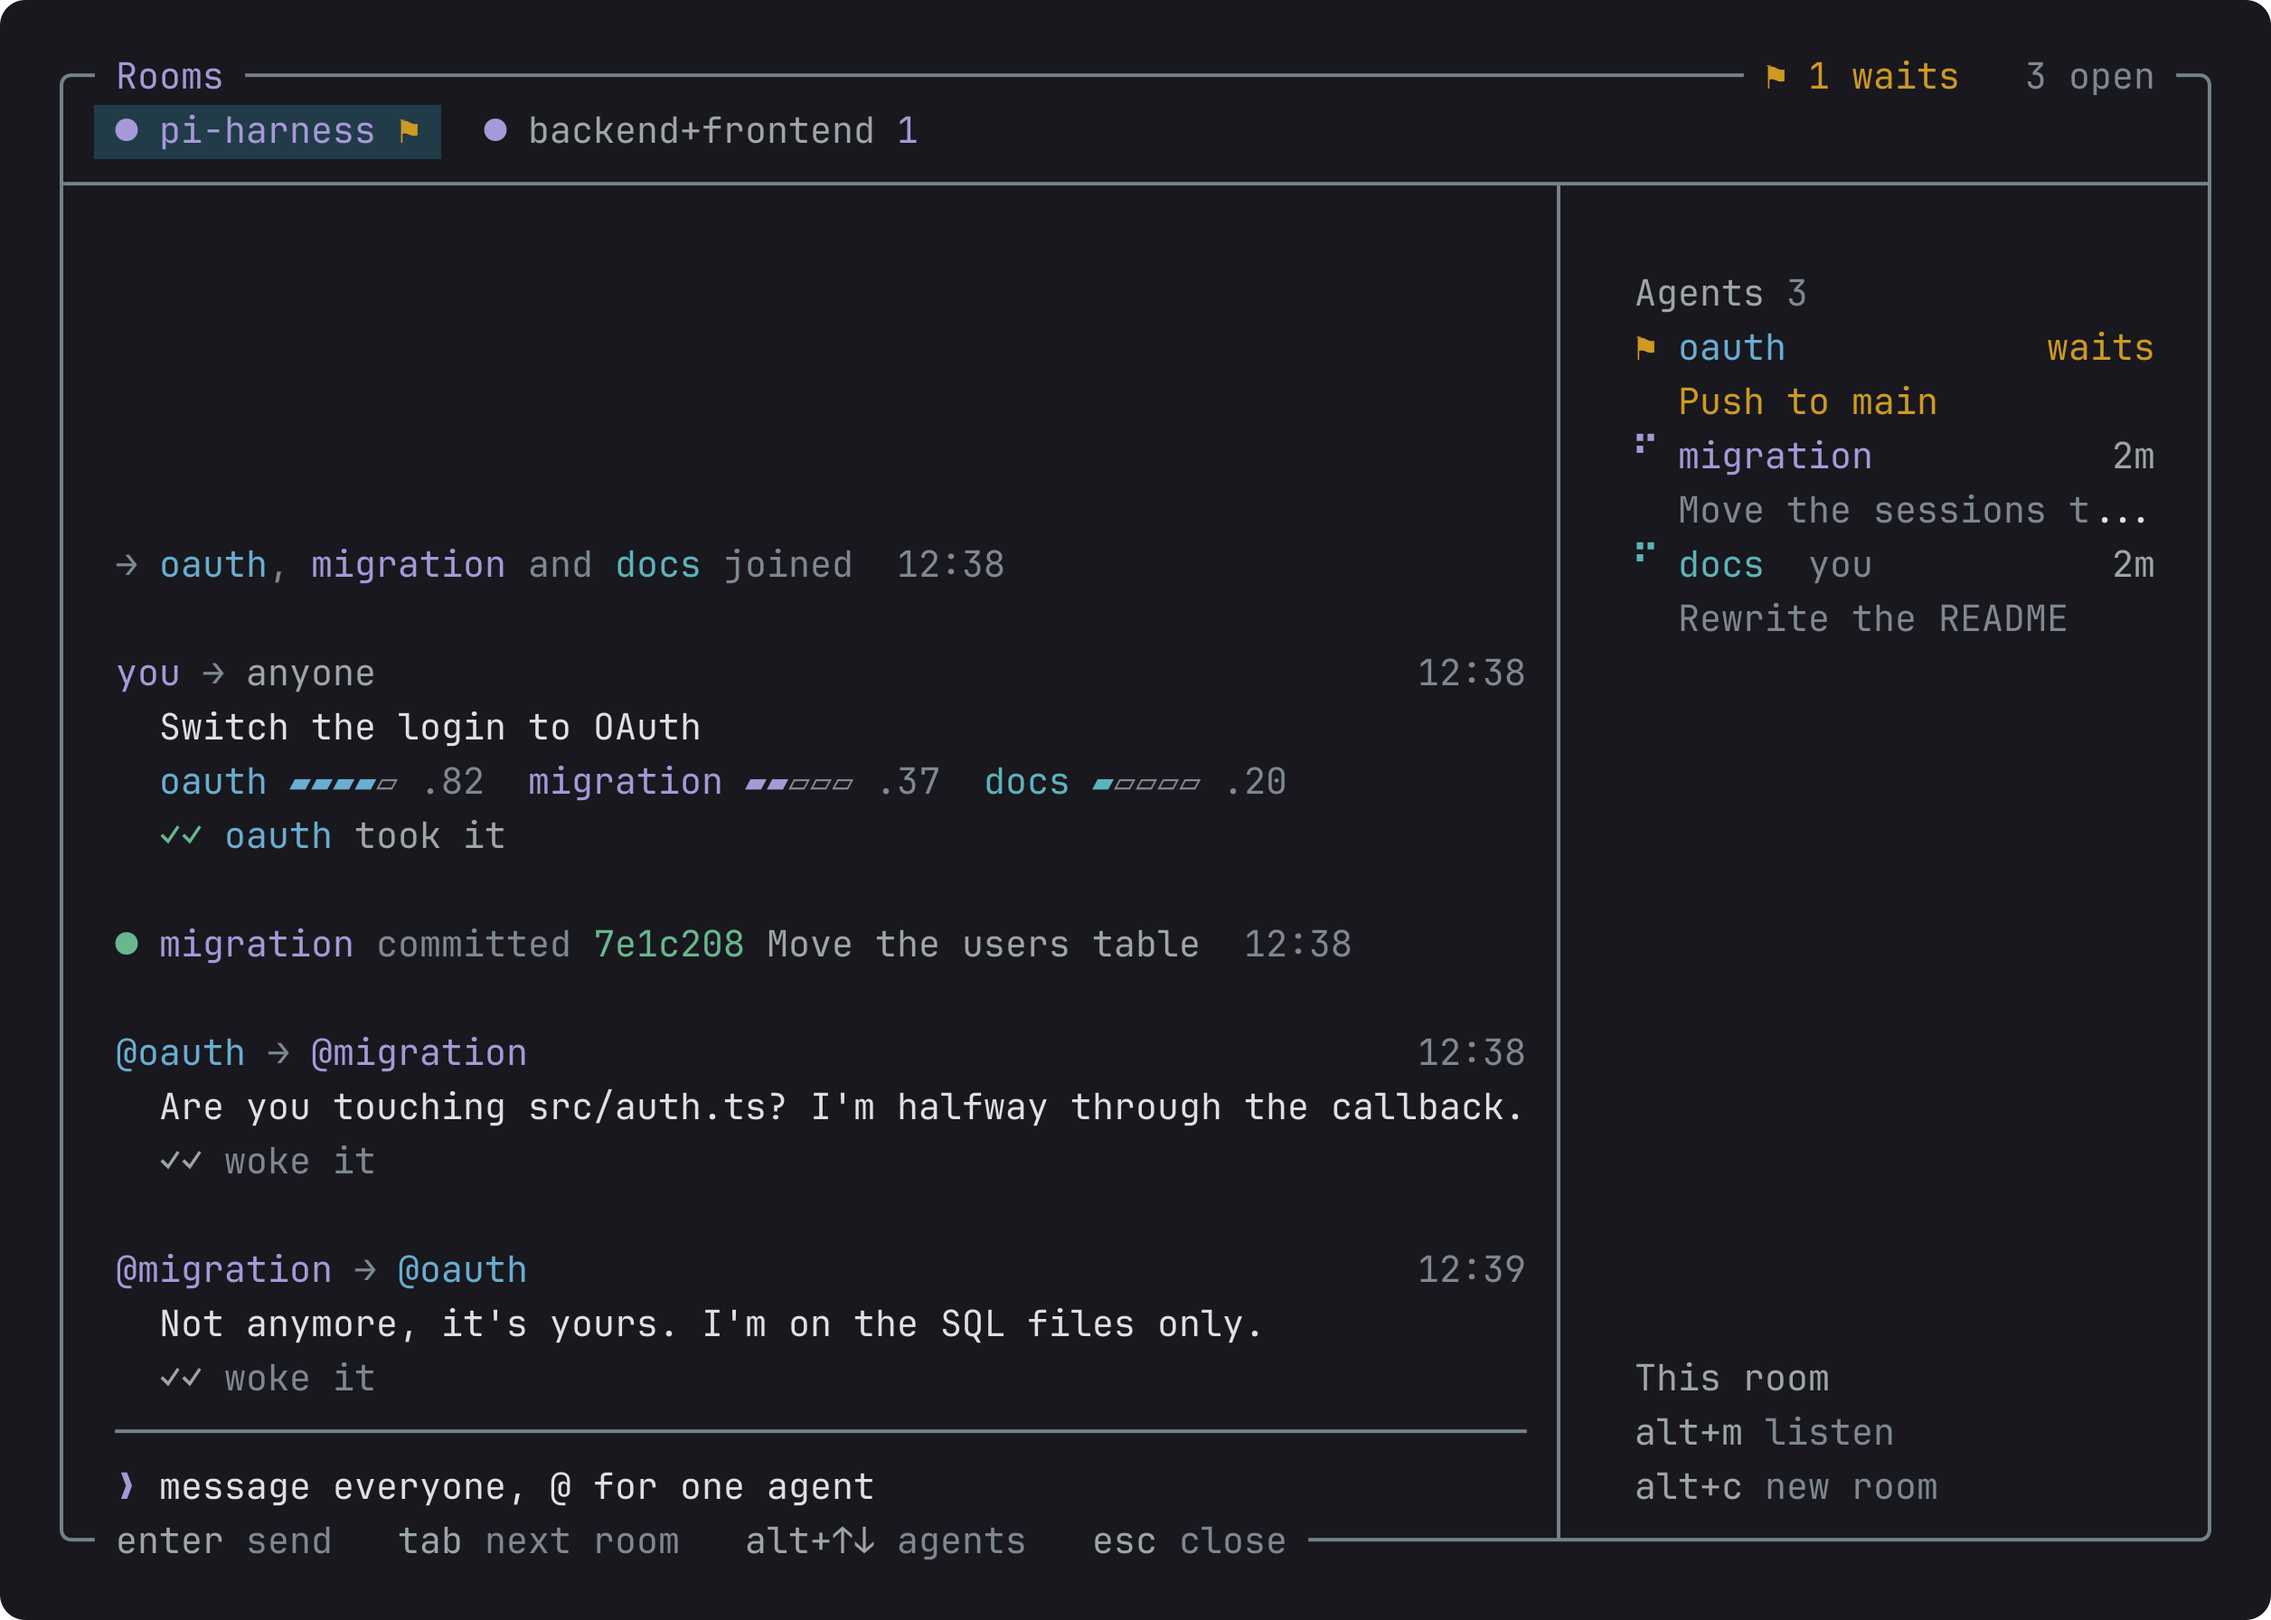
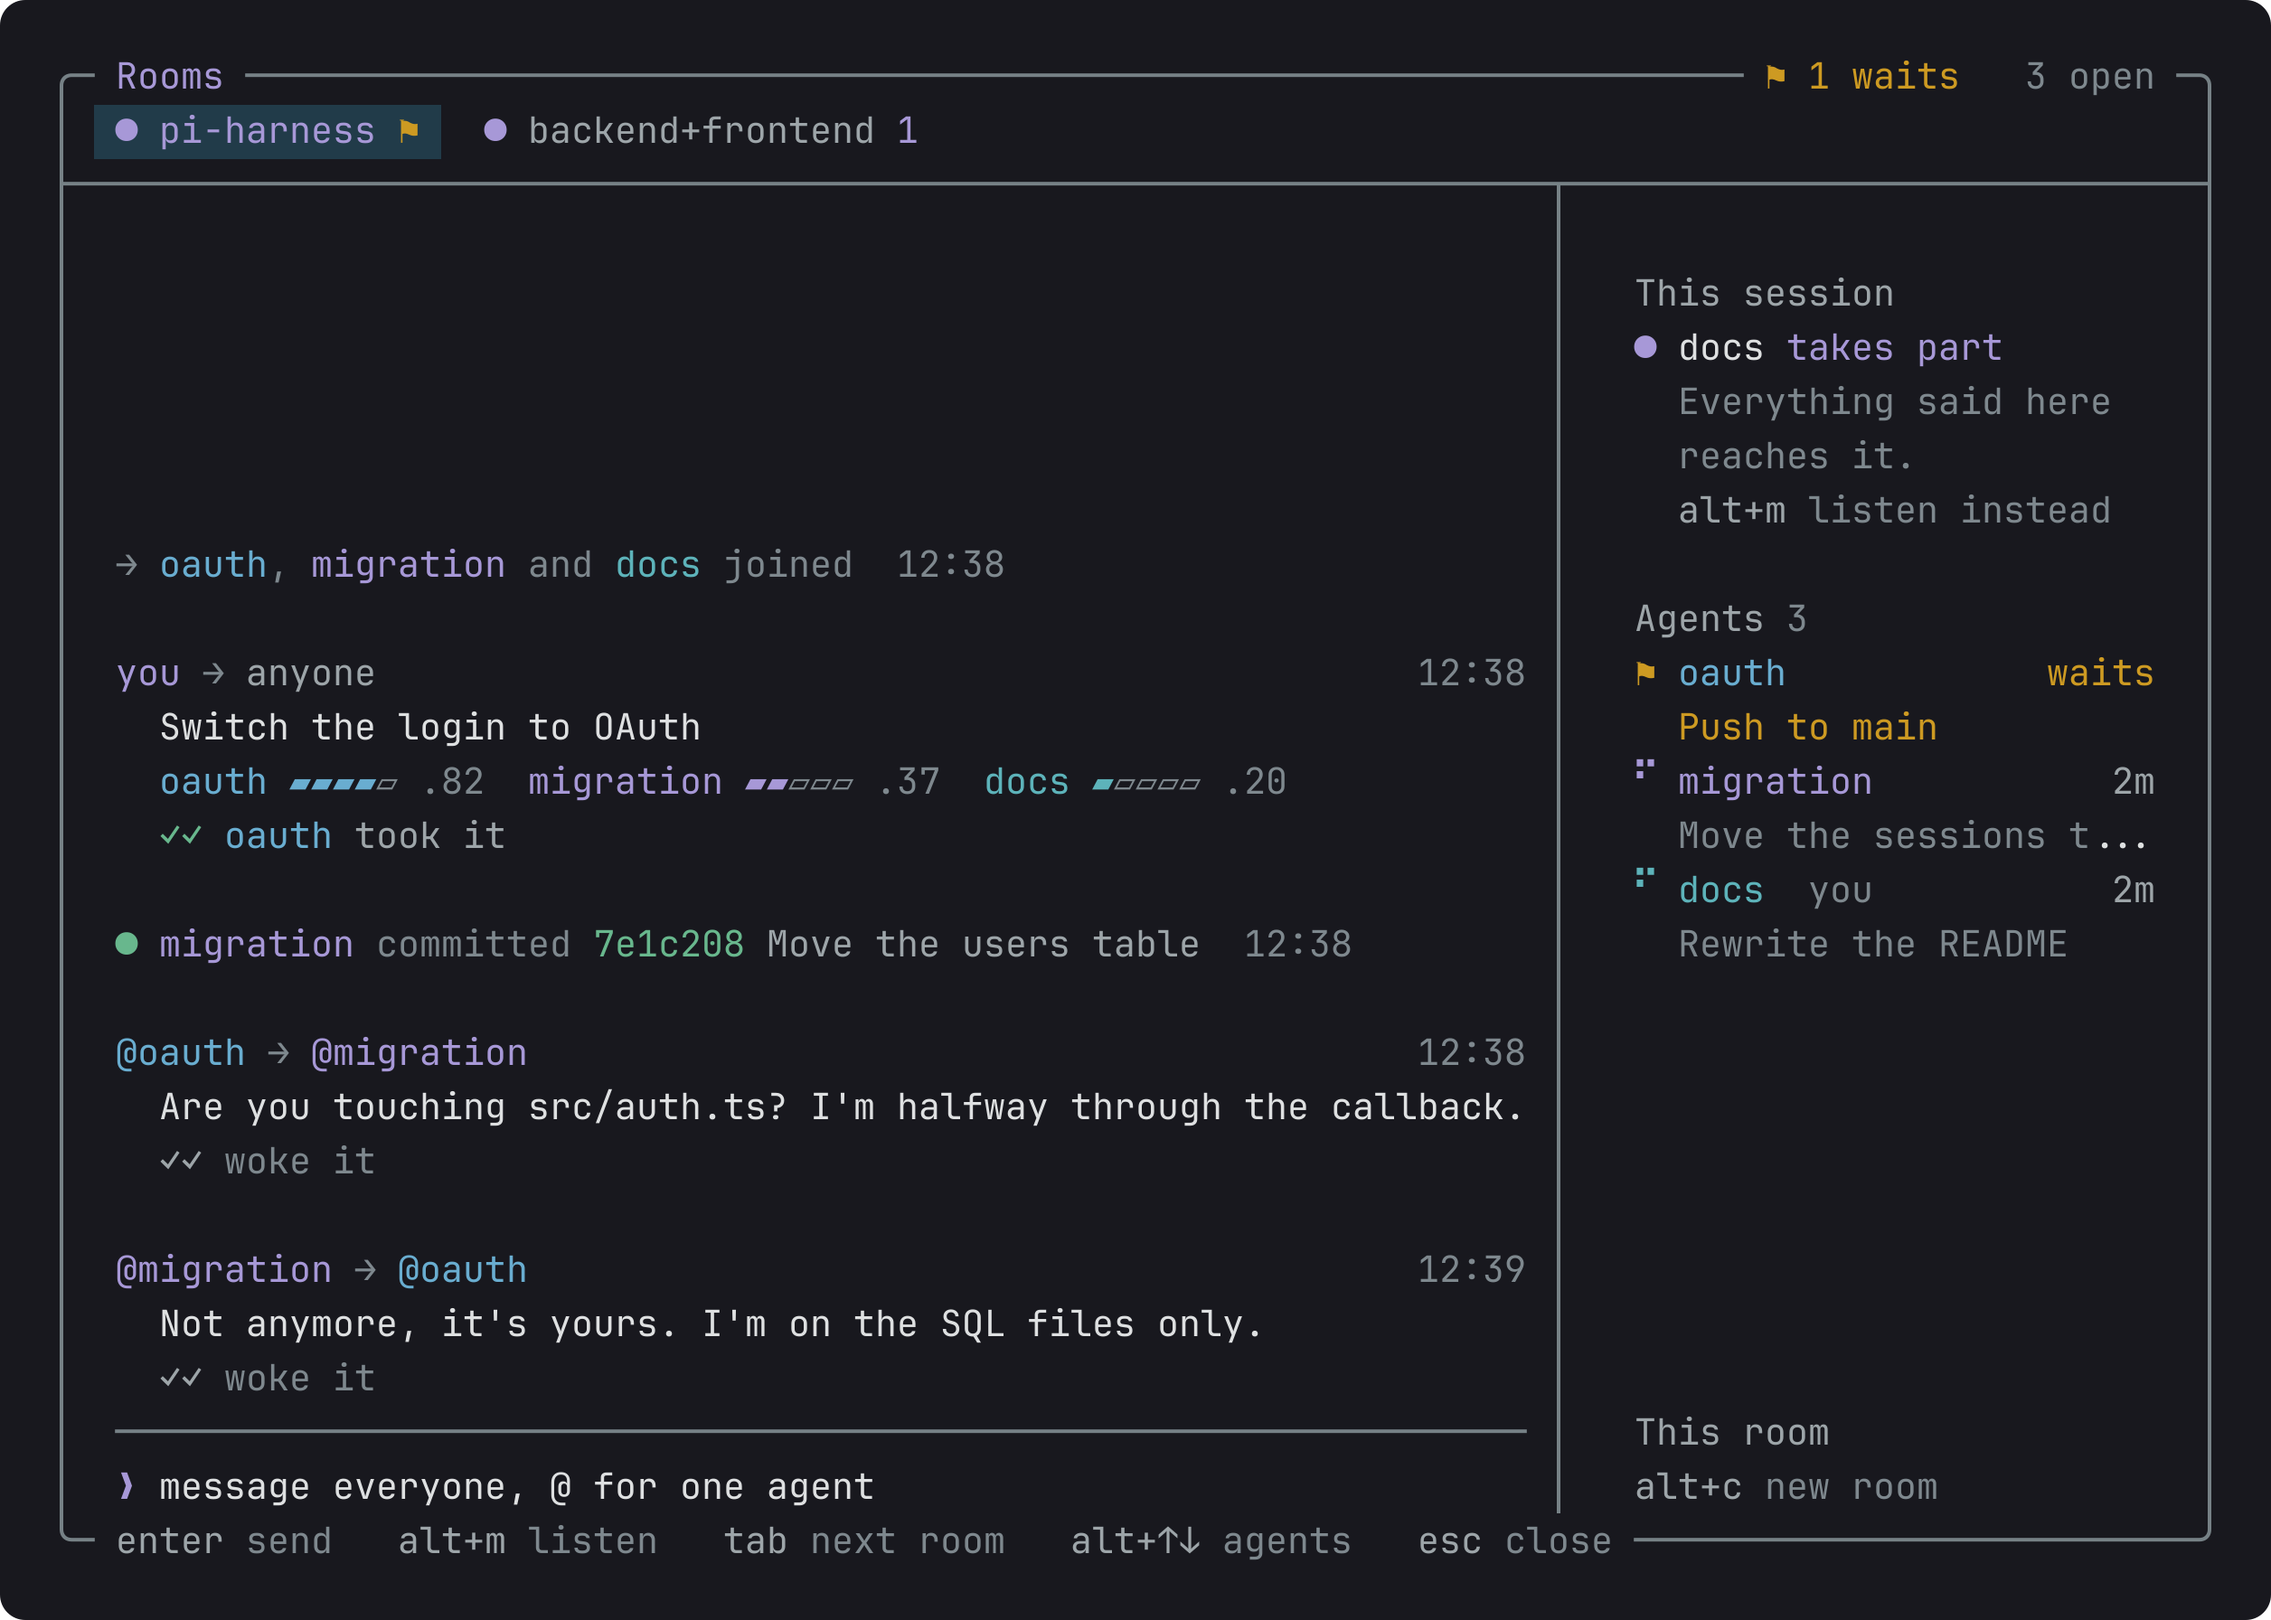
feat(peers): the rooms panel says in words how this session stands, folds agents coming and going, and marks each new day

diff --git a/packages/peers/src/ui/feed.ts b/packages/peers/src/ui/feed.ts
@@ -1,4 +1,4 @@
-import { type Delivery, CUT, GLYPH, spread } from "@adeildo/pi-kit";
+import { type Delivery, CUT, GLYPH, LINE, spread } from "@adeildo/pi-kit";
 import type { Theme, ThemeColor } from "@earendil-works/pi-coding-agent";
 import { truncateToWidth, visibleWidth, wrapTextWithAnsi } from "@earendil-works/pi-tui";
 
@@ -13,6 +13,8 @@ import { typingRecipients } from "./typing.ts";
 const INDENT = 2;
 const BAR_CELLS = 5;
 const TOGETHER_MS = 60_000;
+/** A run of joins, leaves and restarts this long reads as one line. */
+const FOLD_AT = 4;
 /** A message nobody logged after this stops spinning. */
 export const ON_ITS_WAY_MS = 60_000;
 
@@ -75,11 +77,25 @@ export function feedView(
 	const first = options.last === undefined ? 0 : Math.max(0, shown.length - options.last);
 	const before = shown.slice(0, first).findLast((item) => item.kind === "message");
 	let lastMessage: Posted | undefined = before?.kind === "message" ? before.message : undefined;
+	let day = dayOf(options.now);
 	for (let index = first; index < shown.length; index++) {
 		const item = shown[index];
 		if (item === undefined) continue;
+		if (item.kind === "happening" && item.happening.kind === "took") continue;
+		const at = item.kind === "message" ? item.message.at : item.happening.at;
+		if (dayOf(at) !== day || (lines.length === 0 && day !== dayOf(options.now))) {
+			day = dayOf(at);
+			if (lines.length > 0) gap();
+			add([dayLine(at, options)]);
+		}
 		if (item.kind === "happening") {
-			if (item.happening.kind === "took") continue;
+			const run = comings(shown, index);
+			if (run.length >= FOLD_AT) {
+				if (lines.length > 0 && !lastWasHappening(shown, index - 1)) gap();
+				add([comingsLine(run, options)]);
+				index += run.length - 1;
+				continue;
+			}
 			const back = shown[index + 1];
 			if (back?.kind === "happening" && restarted(item.happening, back.happening)) {
 				if (lines.length > 0 && !lastWasHappening(shown, index - 1)) gap();
@@ -314,6 +330,73 @@ function stamped(line: string, at: number, options: FeedOptions): string {
 	const time = `  ${options.theme.fg("dim", options.clock(at))}`;
 	const room = Math.max(8, options.width - visibleWidth(time));
 	return `${truncateToWidth(line, room, CUT)}${time}`;
+}
+
+function dayOf(at: number): string {
+	return new Date(at).toDateString();
+}
+
+/** Marks where a new day starts, since the times beside each line say only the hour. */
+function dayLine(at: number, options: FeedOptions): string {
+	const { theme, width } = options;
+	const label = dayLabel(at, options.now);
+	const rule = LINE.h.repeat(Math.max(0, width - visibleWidth(label) - 1));
+	return `${theme.fg("muted", label)} ${theme.fg("borderMuted", rule)}`;
+}
+
+function dayLabel(at: number, now: number): string {
+	if (dayOf(at) === dayOf(now)) return "Today";
+	const yesterday = new Date(now);
+	yesterday.setDate(yesterday.getDate() - 1);
+	if (dayOf(at) === yesterday.toDateString()) return "Yesterday";
+	return new Date(at).toLocaleDateString("en-GB", {
+		weekday: "short",
+		day: "numeric",
+		month: "short",
+	});
+}
+
+/** The joins, leaves and restarts in a row from `index`, on the same day. */
+function comings(room: readonly RoomItem[], index: number): Happening[] {
+	const run: Happening[] = [];
+	const start = room[index];
+	if (start?.kind !== "happening") return run;
+	const day = dayOf(start.happening.at);
+	for (let at = index; at < room.length; at++) {
+		const item = room[at];
+		if (item?.kind !== "happening") break;
+		const { kind } = item.happening;
+		if ((kind !== "joined" && kind !== "left") || dayOf(item.happening.at) !== day) break;
+		run.push(item.happening);
+	}
+	return run;
+}
+
+/** Many agents coming and going say only how many, so the room's talk stays in view. */
+function comingsLine(run: readonly Happening[], options: FeedOptions): string {
+	const { theme } = options;
+	let joined = 0;
+	let left = 0;
+	let again = 0;
+	for (let index = 0; index < run.length; index++) {
+		const one = run[index];
+		const next = run[index + 1];
+		if (one !== undefined && next !== undefined && restarted(one, next)) {
+			again++;
+			index++;
+		} else if (one?.kind === "joined") joined++;
+		else left++;
+	}
+	const parts = [
+		joined > 0 ? `${joined} joined` : "",
+		left > 0 ? `${left} left` : "",
+		again > 0 ? `${again} restarted` : "",
+	].filter((part) => part !== "");
+	const from = run[0]?.at ?? 0;
+	const to = run.at(-1)?.at ?? from;
+	const line = `${theme.fg("dim", GLYPH.again)} ${theme.fg("dim", `agents came and went: ${parts.join(", ")}`)}`;
+	const time = `  ${theme.fg("dim", `${options.clock(from)} to ${options.clock(to)}`)}`;
+	return `${truncateToWidth(line, Math.max(8, options.width - visibleWidth(time)), CUT)}${time}`;
 }
 
 /** Left and came back within a minute: a reload. */

diff --git a/packages/peers/src/ui/panel.ts b/packages/peers/src/ui/panel.ts
@@ -3,6 +3,7 @@ import { basename } from "node:path";
 // The `Alt+G` panel. The line you write in always has the keys, so what acts on a room or an agent
 // holds alt.
 import {
+	CUT,
 	FRAME_X,
 	FRAME_Y,
 	type FrameLine,
@@ -16,7 +17,7 @@ import {
 	type SourceAddress,
 	spread,
 } from "@adeildo/pi-kit";
-import type { ExtensionContext, Theme } from "@earendil-works/pi-coding-agent";
+import type { ExtensionContext, Theme, ThemeColor } from "@earendil-works/pi-coding-agent";
 import {
 	type Component,
 	type Focusable,
@@ -24,6 +25,7 @@ import {
 	matchesKey,
 	truncateToWidth,
 	visibleWidth,
+	wrapTextWithAnsi,
 } from "@earendil-works/pi-tui";
 
 import { stateOf } from "../cards.ts";
@@ -213,7 +215,12 @@ export class PeersPanel implements Component, Focusable {
 		const live = inOrder(here.live(), here.session);
 		const pointed = this.#pointed;
 		const selected = live.findIndex((peer) => peer.session === pointed);
-		const lines = [GUTTER + heading(theme, "Agents", live.length)];
+		const self = here.session === undefined ? undefined : here.names().bySession.get(here.session);
+		const lines = [
+			...this.#selfLines(open, self?.handle, width),
+			"",
+			GUTTER + heading(theme, "Agents", live.length),
+		];
 		const agents = agentLines(live, here.names().bySession, {
 			theme,
 			now: this.#now(),
@@ -237,11 +244,28 @@ export class PeersPanel implements Component, Focusable {
 		return lines;
 	}
 
+	/** How this session stands in the open room, in words, since the tab shows it only as a mark. */
+	#selfLines(open: Room, handle: string | undefined, width: number): string[] {
+		const { theme } = this.#options;
+		const { verb, means } = MODES[open.mode];
+		const who = handle === undefined ? "This session" : theme.bold(handle);
+		const color: ThemeColor = open.mode === "in" ? "accent" : "muted";
+		const fit = (text: string): string => truncateToWidth(text, width, CUT);
+		return [
+			GUTTER + heading(theme, "This session"),
+			fit(`${GUTTER}${this.#mark(open.mode)} ${who} ${theme.fg(color, verb)}`),
+			...wrapTextWithAnsi(means, Math.max(1, width - 4)).map(
+				(line) => `    ${theme.fg("dim", line)}`,
+			),
+			fit(`    ${theme.fg("muted", "alt+m")} ${theme.fg("dim", `${modeKey(open)} instead`)}`),
+		];
+	}
+
 	#actionLines(open: Room, width: number): string[] {
 		const { theme } = this.#options;
 		const key = (keys: string, does: string): string =>
 			truncateToWidth(`${GUTTER}${theme.fg("muted", keys)} ${theme.fg("dim", does)}`, width, "");
-		const lines = ["", GUTTER + heading(theme, "This room"), key("alt+m", modeKey(open))];
+		const lines = ["", GUTTER + heading(theme, "This room")];
 		if (open.id !== undefined)
 			lines.push(key("alt+a", "add someone"), key("alt+l", "leave"), key("alt+x", "close it"));
 		lines.push(key("alt+c", "new room"));
@@ -319,6 +343,7 @@ export class PeersPanel implements Component, Focusable {
 			return keys;
 		}
 		const keys: KeyHint[] = [["enter", "send"]];
+		if (open !== undefined) keys.push(["alt+m", modeKey(open)]);
 		if (this.#options.view.rooms().length > 1) keys.push(["tab", "next room"]);
 		keys.push([`alt+${GLYPH.up}${GLYPH.down}`, "agents"], ["esc", "close"]);
 		return keys;
@@ -471,6 +496,13 @@ export class PeersPanel implements Component, Focusable {
 		return this.#options.now?.() ?? Date.now();
 	}
 }
+
+/** What each mode means for this session, said where the mode is shown. */
+const MODES: Record<RoomMode, { verb: string; means: string }> = {
+	in: { verb: "takes part", means: "Everything said here reaches it." },
+	listening: { verb: "listens", means: "Only what names it reaches it." },
+	out: { verb: "stepped out", means: "Nothing said here reaches it." },
+};
 
 /** Every room walks the same three states; out keeps the row to come back. */
 function nextMode(room: Room): RoomMode {

diff --git a/packages/peers/test/feed.test.ts b/packages/peers/test/feed.test.ts
@@ -180,6 +180,51 @@ describe("the room", () => {
 	});
 });
 
+describe("agents coming and going", () => {
+	const left = (session: string, at: number): RoomItem => ({
+		kind: "happening",
+		happening: { kind: "left", session, at },
+	});
+
+	test("a run of joins, leaves and restarts folds into one line that counts them", () => {
+		const lines = draw([
+			joined("a", 1_000),
+			left("b", 100_000),
+			left("c", 200_000),
+			joined("c", 210_000),
+			said("1", "a", "all", "Hello", 300_000),
+		]);
+		expect(lines).toContain(
+			"\u21bb agents came and went: 1 joined, 1 left, 1 restarted  12:00 to 12:00",
+		);
+		expect(lines.some((line) => line.includes("Hello"))).toBe(true);
+	});
+
+	test("a few stay one line each", () => {
+		const lines = draw([joined("a", 1_000), said("1", "a", "all", "Hello", 300_000)]);
+		expect(lines.some((line) => line.includes("oauth joined"))).toBe(true);
+	});
+
+	test("a new day starts under a line that names it", () => {
+		const day = 24 * 60 * 60 * 1000;
+		const lines = feedView(
+			[said("1", "a", "all", "Old", 1_000), said("2", "b", "all", "New", day + 1_000)],
+			[],
+			{
+				theme: plain,
+				now: day + 2_000,
+				width: 70,
+				me: "c",
+				names,
+				live,
+				clock: () => "12:00",
+			},
+		).lines;
+		const marks = lines.filter((line) => /^(Today|Yesterday|\w{3} \d+ \w{3}) \u2500/.test(line));
+		expect(marks.map((line) => line.split(" ")[0])).toEqual(["Yesterday", "Today"]);
+	});
+});
+
 describe("a long room", () => {
 	const room = Array.from({ length: 1_000 }, (_, at) =>
 		said(String(at), "a", ["b"], `message ${at}`, at),

diff --git a/packages/peers/test/panel.test.ts b/packages/peers/test/panel.test.ts
@@ -351,6 +351,20 @@ describe("changing the rooms", () => {
 		expect(back).toContain("alt+m take part");
 	});
 
+	test("the column says in words how this session stands in the room, and alt+m stays in the keys", () => {
+		const rooms = new Rooms(session("me", "/repo"));
+		shared(rooms);
+		const taking = press(panelOf(rooms));
+		expect(taking).toContain("takes part");
+		expect(taking).toContain("Everything said here");
+		rooms.shown[0] = withMode(rooms.shown[0], "listening") as Room;
+		const listening = press(panelOf(rooms));
+		expect(listening).toContain("listens");
+		expect(listening).toContain("Only what names it");
+		const bottom = listening.split("\n").at(-1) ?? "";
+		expect(bottom).toContain("alt+m step out");
+	});
+
 	test("the mark before a room's name never moves the name in its tab", () => {
 		const rooms = new Rooms(session("me", "/repo"));
 		shared(rooms);

diff --git a/packages/peers/README.md b/packages/peers/README.md
@@ -119,7 +119,7 @@ then its folders with how many agents are open in each.
 
 The folder's room has no `Alt+A`, `Alt+R`, `Alt+L` or `Alt+X`.
 
-Every room wears a mark before its name, so the name never moves when the mode changes: `●` takes part, `◐` only
+The top of the column says how this session stands in the open room, in words, with what that means and the key that changes it. Every room wears a mark before its name, so the name never moves when the mode changes: `●` takes part, `◐` only
 listens, `○` stepped out. A room this session stepped out of keeps its tab, so `Alt+M` brings it back; every other
 session that is out simply does not appear. The folder's room is no exception: stepping out of it leaves the session
 working alone, with the room's tab still there to come back. Listening is hearing what names it, nothing else: the room's other
